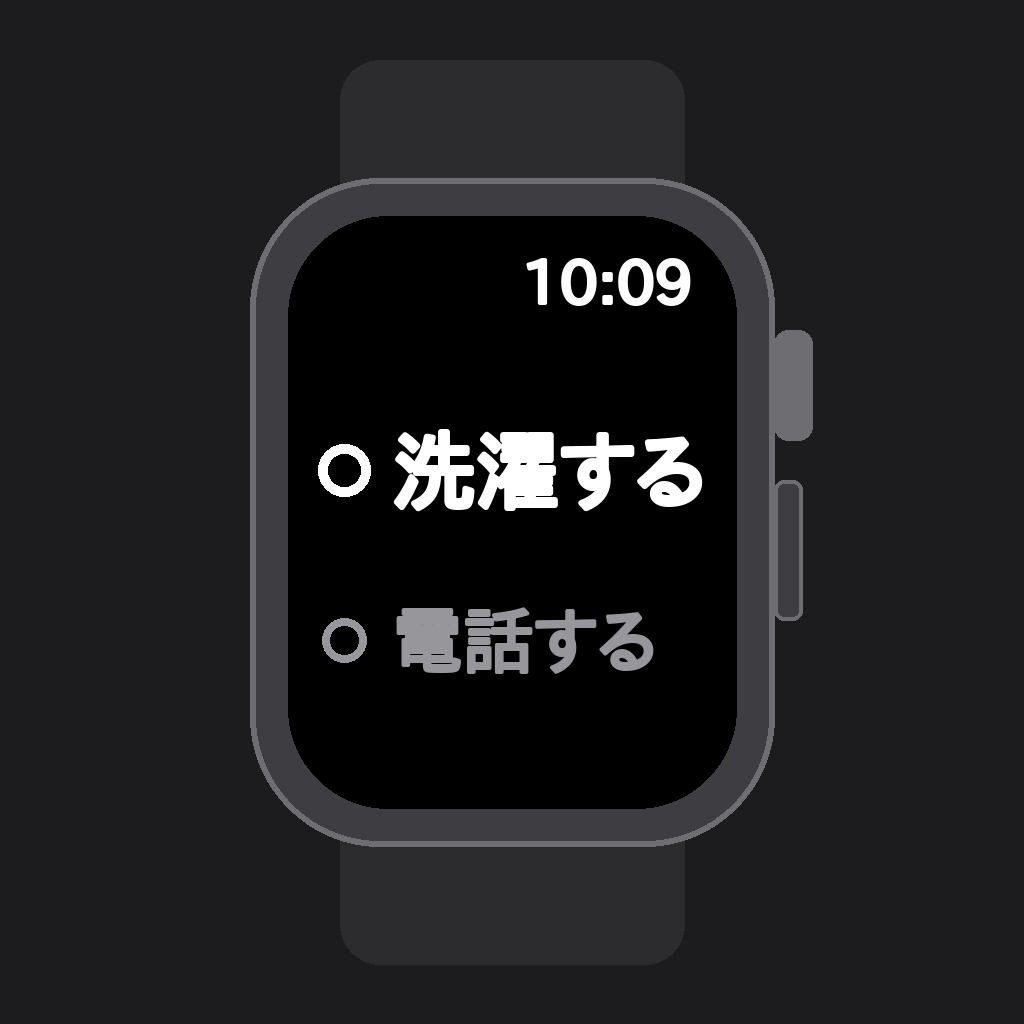
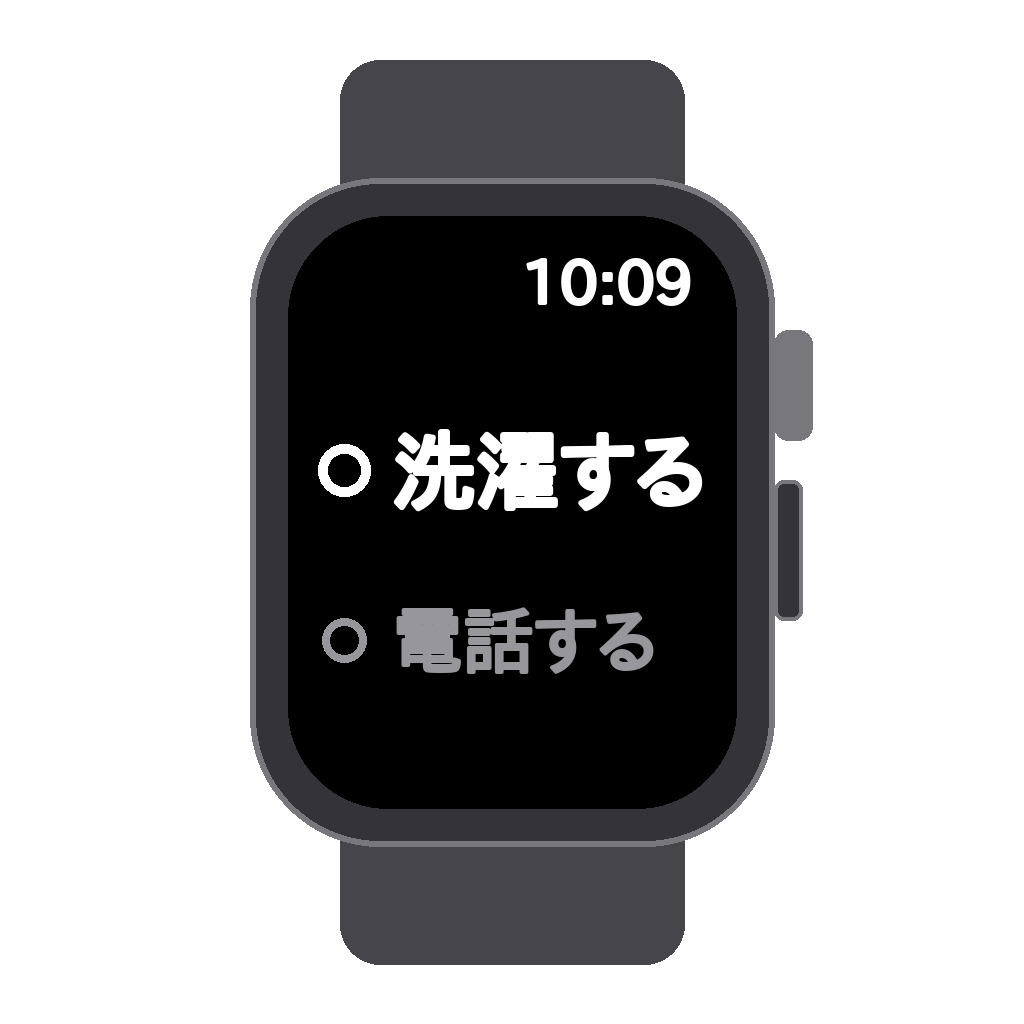
盤面タスク: Watch 型プレビューを最下部に、手動送信に60秒クールダウン
- 文字盤プレビューを Apple Watch の形（ケース・クラウン・バンド・時刻）で描き、
  実際の文字盤と同じルール（2行同じフォント、一緒に縮む）にして一番下へ
- リスト切替は最上部のカプセルに
- 「いま送る」は押すと60秒無効化して残り秒数を出す。1日50回の転送枠を守る
- 状態タイルの文字を大きく
- アイコンの背景を白に

Claude-Session: https://claude.ai/code/session_01LtCZT7mnmAya1MriyLPVKG

diff --git a/iOS/ContentView.swift b/iOS/ContentView.swift
@@ -10,6 +10,8 @@ struct ContentView: View {
     @State private var newTitle = ""
     @State private var renaming: ReminderSource.Item?
     @State private var renameTitle = ""
+    @State private var cooldownUntil: Date = .distantPast   // 手動送信の連打防止
+    private let cooldown: TimeInterval = 60
 
     private let bg = Color.black
     private let panel = Color(white: 0.09)
@@ -18,12 +20,12 @@ struct ContentView: View {
 
     var body: some View {
         List {
-            // ── 文字盤プレビュー ──────────────────────────────
+            // ── リスト切替 ────────────────────────────────────
             Section {
-                facePreview
+                HStack { listMenu; Spacer() }
                     .listRowBackground(bg)
                     .listRowSeparator(.hidden)
-                    .listRowInsets(EdgeInsets(top: 8, leading: 16, bottom: 4, trailing: 16))
+                    .listRowInsets(EdgeInsets(top: 8, leading: 16, bottom: 0, trailing: 16))
             }
 
             // ── タスク ────────────────────────────────────────
@@ -62,7 +64,15 @@ struct ContentView: View {
                 statusGrid
                     .listRowBackground(bg)
                     .listRowSeparator(.hidden)
-                    .listRowInsets(EdgeInsets(top: 12, leading: 16, bottom: 24, trailing: 16))
+                    .listRowInsets(EdgeInsets(top: 12, leading: 16, bottom: 8, trailing: 16))
+            }
+
+            // ── 文字盤プレビュー（一番下）─────────────────────
+            Section {
+                watchMock
+                    .listRowBackground(bg)
+                    .listRowSeparator(.hidden)
+                    .listRowInsets(EdgeInsets(top: 8, leading: 16, bottom: 32, trailing: 16))
             }
         }
         .listStyle(.plain)
@@ -99,35 +109,68 @@ struct ContentView: View {
         .onChange(of: source.items) { _, _ in send(force: false, reason: "画面") }
     }
 
-    // MARK: - 文字盤プレビュー
+    // MARK: - 文字盤プレビュー（Apple Watch の形）
 
-    private var facePreview: some View {
-        VStack(alignment: .leading, spacing: 10) {
-            HStack {
-                Text("WATCH FACE")
-                    .font(.system(size: 11, weight: .semibold, design: .monospaced))
-                    .foregroundStyle(dim)
-                    .tracking(1.5)
-                Spacer()
-                listMenu
+    /// 実際の文字盤と同じルールで描く: 2行とも同じフォント、長い方に合わせて一緒に縮む。
+    private var watchMock: some View {
+        let lines = source.faceTasks.lines
+        let caseColor = Color(white: 0.22)
+        let caseEdge = Color(white: 0.38)
+        return VStack(spacing: 10) {
+            ZStack {
+                // バンド
+                RoundedRectangle(cornerRadius: 14, style: .continuous)
+                    .fill(Color(white: 0.14))
+                    .frame(width: 120, height: 320)
+                // ケース
+                RoundedRectangle(cornerRadius: 46, style: .continuous)
+                    .fill(caseColor)
+                    .overlay(RoundedRectangle(cornerRadius: 46, style: .continuous).stroke(caseEdge, lineWidth: 2))
+                    .frame(width: 216, height: 262)
+                // デジタルクラウン
+                RoundedRectangle(cornerRadius: 4, style: .continuous)
+                    .fill(caseEdge)
+                    .frame(width: 10, height: 40)
+                    .offset(x: 112, y: -50)
+                RoundedRectangle(cornerRadius: 3, style: .continuous)
+                    .fill(caseEdge)
+                    .frame(width: 7, height: 52)
+                    .offset(x: 110, y: 20)
+                // 画面
+                RoundedRectangle(cornerRadius: 38, style: .continuous)
+                    .fill(.black)
+                    .frame(width: 190, height: 236)
+                    .overlay(alignment: .top) {
+                        VStack(spacing: 0) {
+                            HStack {
+                                Spacer()
+                                Text(Date.now, style: .time)
+                                    .font(.system(size: 22, weight: .medium, design: .rounded))
+                                    .foregroundStyle(.white)
+                            }
+                            .padding(.top, 18)
+                            .padding(.trailing, 20)
+                            Spacer()
+                            // 横長スロット（実際のコンプリケーション）
+                            Text(lines.isEmpty ? "タスクなし" : lines.joined(separator: "\n"))
+                                .font(.system(size: 20, weight: .semibold))
+                                .foregroundStyle(lines.isEmpty ? dim : .white)
+                                .lineLimit(max(1, lines.count))
+                                .minimumScaleFactor(0.4)
+                                .frame(width: 154, height: 60, alignment: .leading)
+                                .padding(.horizontal, 8)
+                                .background(Color(white: 0.11), in: RoundedRectangle(cornerRadius: 12, style: .continuous))
+                            Spacer()
+                        }
+                    }
             }
-            VStack(alignment: .leading, spacing: 4) {
-                let lines = source.faceTasks.lines
-                Text(lines.first ?? "タスクなし")
-                    .font(.system(size: 26, weight: .semibold))
-                    .foregroundStyle(lines.isEmpty ? dim : .white)
-                    .lineLimit(1)
-                Text(lines.count > 1 ? lines[1] : " ")
-                    .font(.system(size: 22, weight: .semibold))
-                    .foregroundStyle(dim)
-                    .lineLimit(1)
-            }
-            .padding(.vertical, 4)
+            .frame(height: 300)
+            .clipped()
+            Text("時計ではこう見えます")
+                .font(.system(size: 12))
+                .foregroundStyle(dim)
         }
-        .padding(16)
-        .frame(maxWidth: .infinity, alignment: .leading)
-        .background(panel, in: RoundedRectangle(cornerRadius: 22, style: .continuous))
-        .overlay(RoundedRectangle(cornerRadius: 22, style: .continuous).stroke(edge, lineWidth: 1))
+        .frame(maxWidth: .infinity)
     }
 
     private var listMenu: some View {
@@ -193,22 +236,29 @@ struct ContentView: View {
                 tile("文字盤に配置", ok: session.isComplicationEnabled)
                 tile("残り転送 / 日", value: "\(session.remainingTransfers)")
                 tile("ビルド", value: BuildInfo.marker)
-                Button {
-                    send(force: true, reason: "手動")
-                } label: {
-                    HStack {
-                        Image(systemName: "arrow.up.forward.app")
-                        Text("いま送る")
+                TimelineView(.periodic(from: .now, by: 1)) { context in
+                    let remaining = Int(cooldownUntil.timeIntervalSince(context.date).rounded(.up))
+                    let waiting = remaining > 0
+                    Button {
+                        cooldownUntil = Date.now.addingTimeInterval(cooldown)
+                        send(force: true, reason: "手動")
+                    } label: {
+                        HStack {
+                            Image(systemName: waiting ? "hourglass" : "arrow.up.forward.app")
+                            Text(waiting ? "あと \(remaining) 秒" : "いま送る")
+                        }
+                        .font(.system(size: 16, weight: .semibold))
+                        .foregroundStyle(waiting ? dim : .black)
+                        .frame(maxWidth: .infinity, minHeight: 60)
+                        .background(waiting ? panel : .white, in: RoundedRectangle(cornerRadius: 14, style: .continuous))
+                        .overlay(RoundedRectangle(cornerRadius: 14, style: .continuous).stroke(waiting ? edge : .clear, lineWidth: 1))
                     }
-                    .font(.system(size: 14, weight: .semibold))
-                    .foregroundStyle(.black)
-                    .frame(maxWidth: .infinity, minHeight: 54)
-                    .background(.white, in: RoundedRectangle(cornerRadius: 14, style: .continuous))
+                    .buttonStyle(.plain)
+                    .disabled(waiting)
                 }
-                .buttonStyle(.plain)
             }
             Text(session.lastResult)
-                .font(.system(size: 11, design: .monospaced))
+                .font(.system(size: 13, design: .monospaced))
                 .foregroundStyle(dim)
                 .frame(maxWidth: .infinity, alignment: .leading)
                 .lineLimit(2)
@@ -218,7 +268,7 @@ struct ContentView: View {
     private func tile(_ label: String, ok: Bool) -> some View {
         tileBody(label) {
             Image(systemName: ok ? "checkmark" : "xmark")
-                .font(.system(size: 16, weight: .bold))
+                .font(.system(size: 20, weight: .bold))
                 .foregroundStyle(ok ? Color.green : Color.red)
         }
     }
@@ -226,7 +276,7 @@ struct ContentView: View {
     private func tile(_ label: String, value: String) -> some View {
         tileBody(label) {
             Text(value)
-                .font(.system(size: 18, weight: .semibold, design: .rounded))
+                .font(.system(size: 22, weight: .semibold, design: .rounded))
                 .foregroundStyle(.white)
         }
     }
@@ -234,14 +284,13 @@ struct ContentView: View {
     private func tileBody<V: View>(_ label: String, @ViewBuilder value: () -> V) -> some View {
         HStack {
             Text(label)
-                .font(.system(size: 11, weight: .medium))
+                .font(.system(size: 15, weight: .medium))
                 .foregroundStyle(dim)
-                .tracking(0.5)
             Spacer()
             value()
         }
         .padding(.horizontal, 14)
-        .frame(maxWidth: .infinity, minHeight: 54)
+        .frame(maxWidth: .infinity, minHeight: 60)
         .background(panel, in: RoundedRectangle(cornerRadius: 14, style: .continuous))
         .overlay(RoundedRectangle(cornerRadius: 14, style: .continuous).stroke(edge, lineWidth: 1))
     }

diff --git a/Shared/TaskStore.swift b/Shared/TaskStore.swift
@@ -4,7 +4,7 @@ import Foundation
 /// どのビルドが実機に入っているかを見分けるための印。コードを push するたびに増やす。
 /// Watch アプリの画面と iPhone の状態欄に出る。文字盤には出さない。
 enum BuildInfo {
-    static let marker = "b8"
+    static let marker = "b9"
 }
 
 enum AppGroup {

diff --git a/Tools/make-icon.py b/Tools/make-icon.py
@@ -25,10 +25,10 @@ def bar(d, x, y, w, h, color):
 
 def render_watch():
     """Apple Watch の輪郭の中に、文字盤のコンプリケーションを描く。"""
-    BG = (28, 28, 30)
-    BAND = (44, 44, 46)
-    CASE = (62, 62, 66)
-    EDGE = (110, 110, 114)
+    BG = (255, 255, 255)
+    BAND = (70, 70, 74)
+    CASE = (52, 52, 56)
+    EDGE = (120, 120, 124)
     img = Image.new("RGB", (SIZE, SIZE), BG)
     d = ImageDraw.Draw(img)
 
